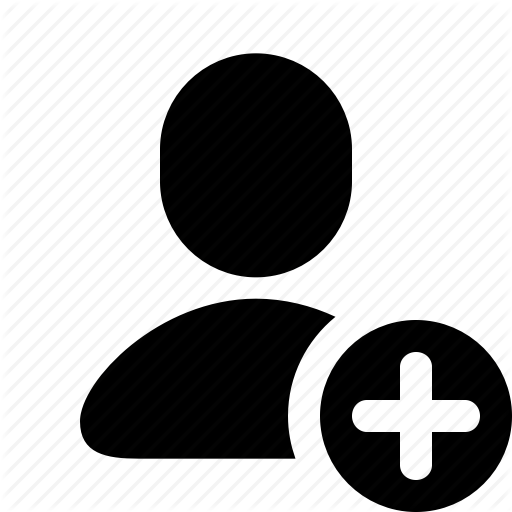
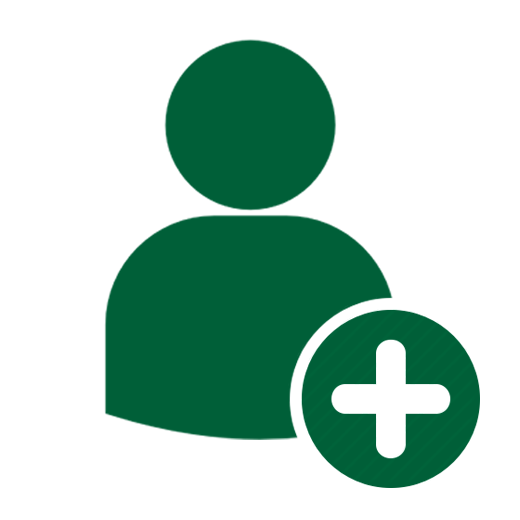
Atualização da pag-inicial

diff --git a/fitbox/base/templates/base/home.html b/fitbox/base/templates/base/home.html
@@ -1,7 +1,7 @@
 {% extends 'base/base.html' %}
 {% load static %}
 {% block title %}FitBox{% endblock title %}
-
+<!--- Código Lucas
 {% block body %}
 	<div id="interface">
 			<img id="img-logo" src="{% static 'images/logo-index.png' %}" alt="FitBox"/>
@@ -42,6 +42,59 @@
 
     });
     </script>
+
+
+{% endblock %}
+  -->
+{% block body %}
+<div class="container bg-light shadow-sm">
+  <div class="row mt-1">
+      <div class="col-12 mt-3 text-center">
+          <img src="{% static 'images/logo-index.png' %}" width="92"  alt="logo">
+          <h1 class="h3 text-secondary">FitBox</h1>
+          <p class="text-secondary">Saúde e Tecnologia</p>
+      </div>
+  </div>
+
+  
+  <div class="mt-md-3 d-flex justify-content-center">
+      <div class="p-2 flex bd-highlight">
+          <a class="text-secondary lh-2 btn btn-light" href="{% url 'cadastro:indice' %}">
+              <div class="text-center">
+                  <span>
+                      <img src="{% static 'images/pacientes.png' %} class="mx-auto d-block" alt="" width="72">
+                  </span>
+                  <span>
+                      Meus<br>Pacientes
+                  </span>
+              </div>
+          </a>
+          <a class="text-secondary lh-2 btn btn-light" id="novo-cadastro" href="{% static 'images/novo-paciente.png' %}">
+              <div>
+                  <span>
+                      <img src="{% static 'images/novo-paciente.png' %}" class="mx-auto d-block"alt="" width="72">
+
+                  </span>
+                  <span>
+                      Novos <br>Pacientes
+                  </span>
+
+              </div>
+          </a>
+      </div>
+  </div>
+</div>
+
+
+<script type="text/javascript">
+  $(document).ready(function() {
+
+  $("#novo-cadastro").modalForm({
+      formURL: "{% url 'cadastro:cadastro_paciente_popup' %}"
+  });
+
+  });
+  </script>
 
 
 {% endblock %}
